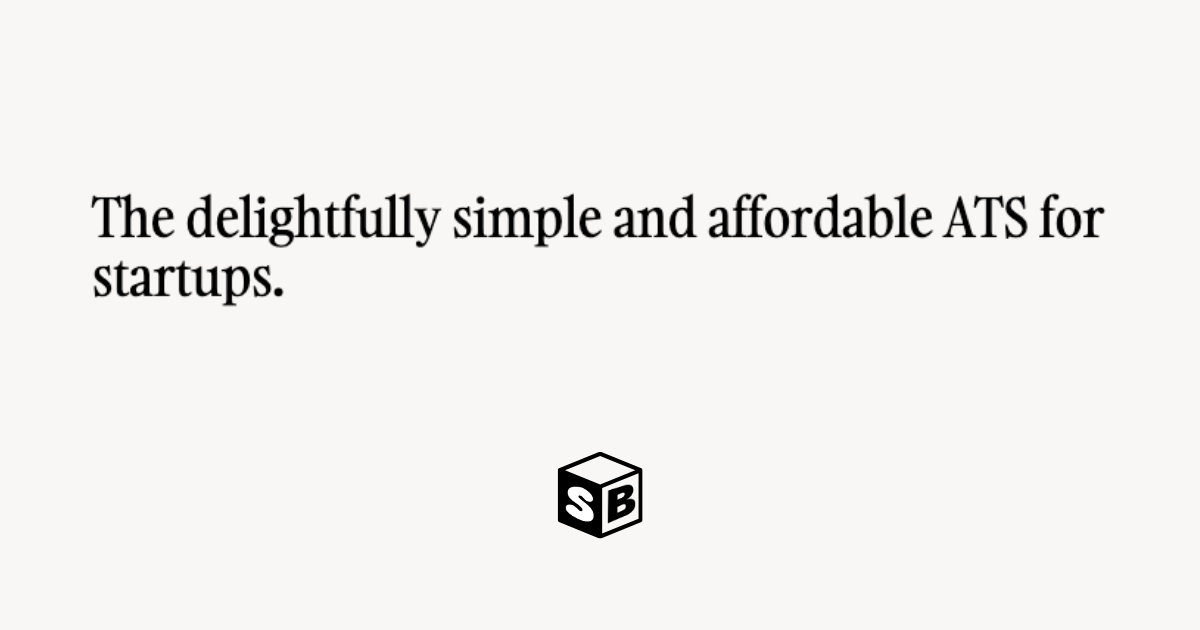
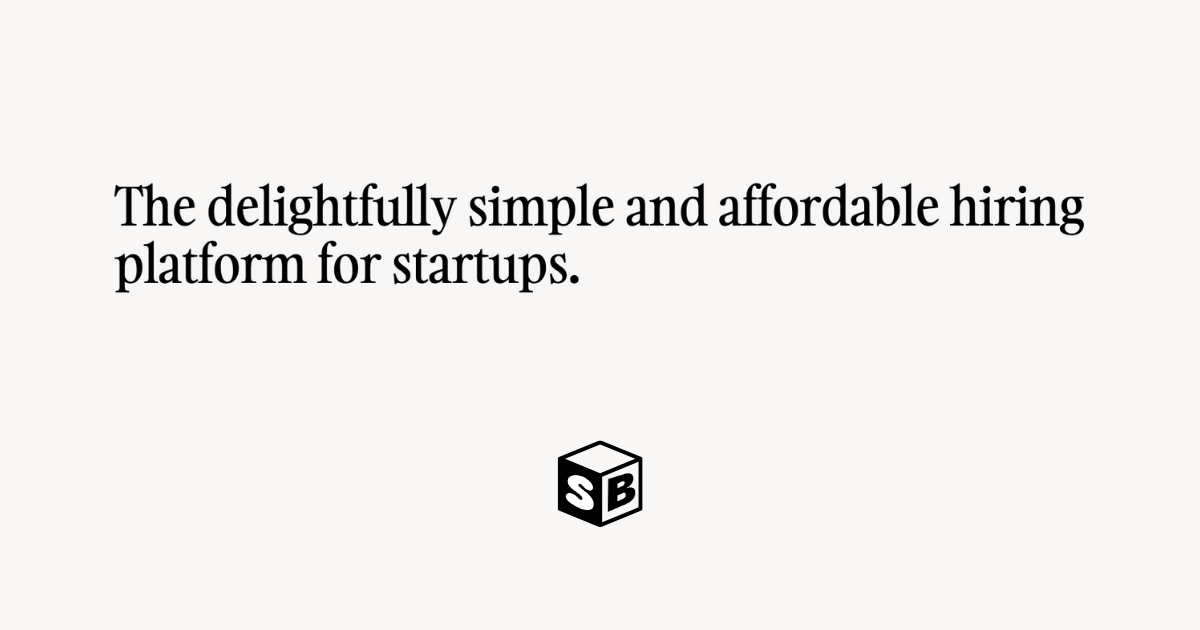
ATS to hiring platform

Changed region(s): [[0.0617, 0.2714, 0.925, 0.4825], [0.4625, 0.6937, 0.555, 0.8746]]

diff --git a/app/page.tsx b/app/page.tsx
@@ -11,7 +11,7 @@ export default async function Home() {
   return (       
     <main className='sm:w-[700px] mx-8 sm:mx-auto my-24 sm:my-8'>
       <LogoNav />
-      <h1 className='font-special text-4xl'>The delightfully simple and affordable ATS for startups.</h1>
+      <h1 className='font-special text-4xl'>The delightfully simple and affordable hiring platform for startups.</h1>
       <Link href="/signin">
         <ActionButton className="w-20 mt-8">
           Sign in
@@ -31,14 +31,14 @@ export default async function Home() {
       <h3 className="text-lg">$10 / mo</h3>
       <h3 className="mt-8 text-our-gray text-sm font-highlight">Job description</h3>
       <p className="mt-2">No gimmicks, no frills.</p>
-      <p className="mt-5">StartBlock is a feature conscious ATS that focuses on providing you and your applicants the best and most straightforward experience possible.</p>
+      <p className="mt-5">StartBlock is a feature conscious hiring platform that focuses on providing you and your applicants the best and most straightforward experience possible.</p>
       <p className="mt-5">Post unlimited jobs, collaborate with any sized team, sort and score applicants, and hire the best talent.</p>
       <p className="mt-5">Join today for only $10 / mo and cancel anytime.</p>
       <h3 className="mt-8 text-our-gray text-sm font-highlight">Requirements for applicants</h3>
       <p className="mt-2">Is operating startup or small business that is looking to hire talent.</p>
       <p className="mt-3">Wants simplicity and a delightful experience for themselves and applicants.</p>
       <p className="mt-3">Is hiring talent online through the custom StartBlock job board or using the StartBlock Embed SDK.</p>
-      <p className="mt-3">Doesn't want to spend a fortune on an ATS or has a limited budget.</p>
+      <p className="mt-3">Doesn't want to spend a fortune on an hiring platform or has a limited budget.</p>
       <Link href="/signin">
         <ActionButton className="mt-12">
           Start hiring with StartBlock

diff --git a/app/layout.tsx b/app/layout.tsx
@@ -4,8 +4,8 @@ import localFont from 'next/font/local'
 import { Analytics } from "@vercel/analytics/react"
 
 export const metadata: Metadata = {
-  title: "Startblock | The delightfully simple ATS",
-  description: "The delightfully simple and affordable ATS",
+  title: "Startblock | The delightfully simple hiring platform for startups",
+  description: "The delightfully simple and affordable hiring platform for startups.",
   openGraph: {
     images: '/startblock-og.png',
   },
